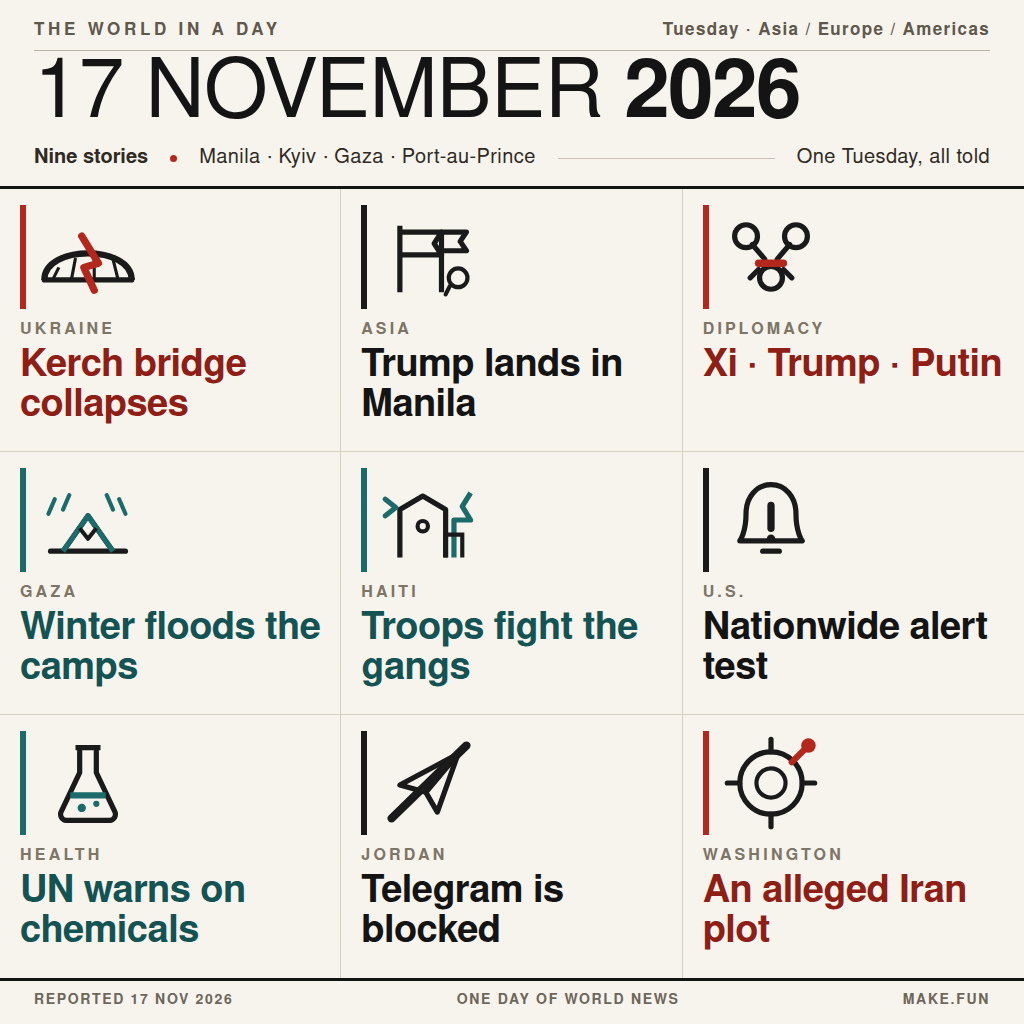
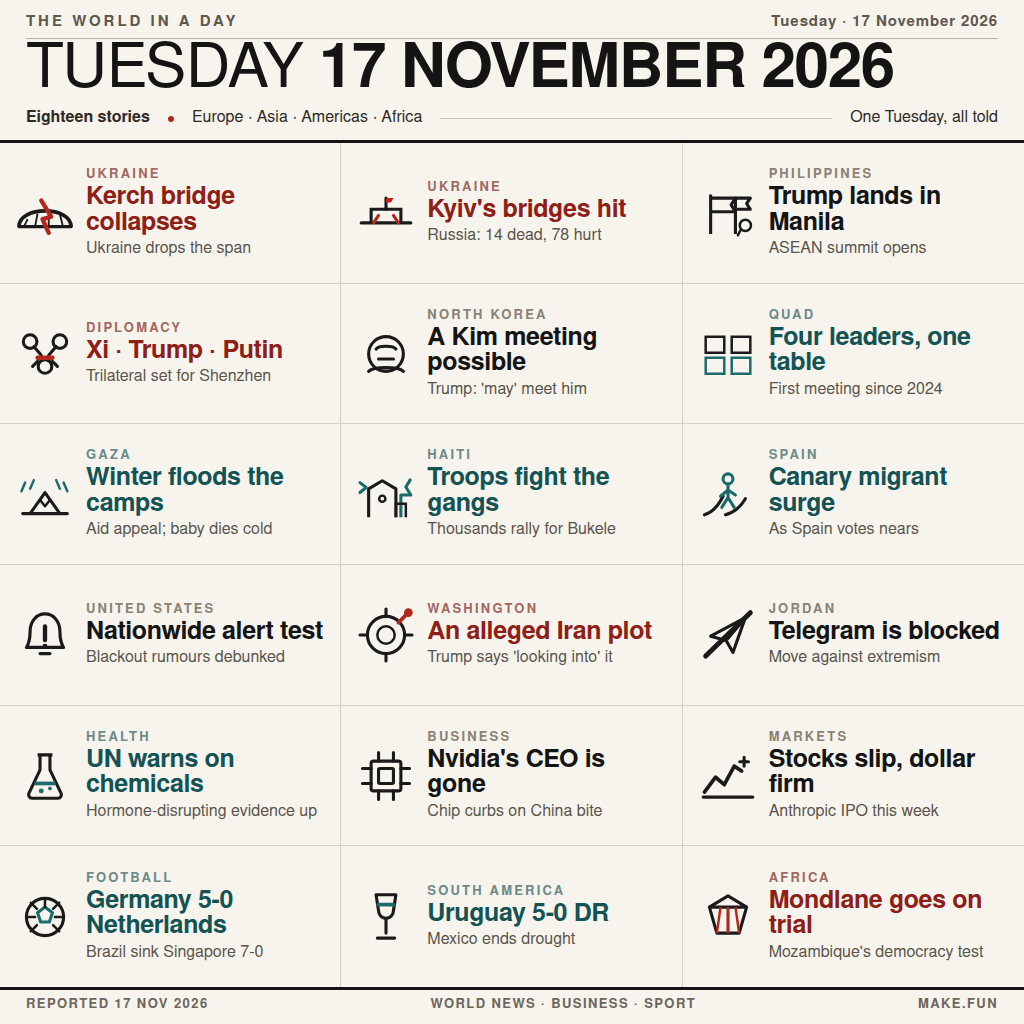
news-image 17 Nov: eighteen-story front page, six rows, wider coverage
The nine-tile poster left the page thin against the field. This one carries
eighteen stories across Europe, Asia, the Americas and Africa, with business,
markets, health and sport, in a six-row grid.

Changed region(s): [[0.0, 0.4375, 1.0, 1.0], [0.0, 0.0, 1.0, 0.4062], [0.6875, 0.4375, 1.0, 0.6875]]

diff --git a/render.py b/render.py
@@ -4,10 +4,8 @@
 This is the drawing step, not the entry point: it needs the system Chrome, so
 it does not run in the grader's sandbox. main.py copies the image it writes.
 
-The poster is laid out in HTML with CSS typography and inline SVG, then rendered
-to PNG by the system Chrome. Python's standard library only: nothing is
-installed before this runs, and no network is used. Both runs write the same
-bytes, so the image is deterministic.
+The poster is laid out in HTML with CSS typography and inline SVG, then
+rendered to PNG by the system Chrome. Python's standard library only.
 """
 import os
 import shutil
@@ -19,21 +17,29 @@ W = H = 1024
 OUT = os.path.join(os.path.dirname(os.path.abspath(__file__)), "entry.png")
 
 # ----------------------------------------------------------------- the stories
-# Each entry: (icon id, section, headline, sublabel, accent)
+# Each entry: (icon id, region, headline, sublabel, accent)
 STORIES = [
-    ("bridge", "UKRAINE", "Kerch bridge collapses", "red"),
-    ("flags", "ASIA", "Trump lands in Manila", "ink"),
-    ("handshake", "DIPLOMACY", "Xi · Trump · Putin", "red"),
-    ("dove", "GAZA", "Winter floods the camps", "teal"),
-    ("haiti", "HAITI", "Troops fight the gangs", "teal"),
-    ("alert", "U.S.", "Nationwide alert test", "ink"),
-    ("flask", "HEALTH", "UN warns on chemicals", "teal"),
-    ("phone", "JORDAN", "Telegram is blocked", "ink"),
-    ("probe", "WASHINGTON", "An alleged Iran plot", "red"),
+    ("bridge", "UKRAINE", "Kerch bridge collapses", "Ukraine drops the span", "red"),
+    ("kyiv", "UKRAINE", "Kyiv's bridges hit", "Russia: 14 dead, 78 hurt", "red"),
+    ("flags", "PHILIPPINES", "Trump lands in Manila", "ASEAN summit opens", "ink"),
+    ("handshake", "DIPLOMACY", "Xi · Trump · Putin", "Trilateral set for Shenzhen", "red"),
+    ("kim", "NORTH KOREA", "A Kim meeting possible", "Trump: 'may' meet him", "ink"),
+    ("quad", "QUAD", "Four leaders, one table", "First meeting since 2024", "teal"),
+    ("dove", "GAZA", "Winter floods the camps", "Aid appeal; baby dies cold", "teal"),
+    ("haiti", "HAITI", "Troops fight the gangs", "Thousands rally for Bukele", "teal"),
+    ("migrant", "SPAIN", "Canary migrant surge", "As Spain votes nears", "teal"),
+    ("alert", "UNITED STATES", "Nationwide alert test", "Blackout rumours debunked", "ink"),
+    ("probe", "WASHINGTON", "An alleged Iran plot", "Trump says 'looking into' it", "red"),
+    ("phone", "JORDAN", "Telegram is blocked", "Move against extremism", "ink"),
+    ("flask", "HEALTH", "UN warns on chemicals", "Hormone-disrupting evidence up", "teal"),
+    ("chip", "BUSINESS", "Nvidia's CEO is gone", "Chip curbs on China bite", "ink"),
+    ("market", "MARKETS", "Stocks slip, dollar firm", "Anthropic IPO this week", "ink"),
+    ("ball", "FOOTBALL", "Germany 5-0 Netherlands", "Brazil sink Singapore 7-0", "teal"),
+    ("wine", "SOUTH AMERICA", "Uruguay 5-0 DR", "Mexico ends drought", "teal"),
+    ("gold", "AFRICA", "Mondlane goes on trial", "Mozambique's democracy test", "red"),
 ]
 
 # ------------------------------------------------------------------ the icons
-# Each icon is a flat drawing in a 100x100 box, drawn in the accent colour.
 ICONS = {
     "bridge": """
       <path d="M8 72h84" stroke="INK" stroke-width="5" stroke-linecap="round"/>
@@ -42,6 +48,14 @@ ICONS = {
             stroke="INK" stroke-width="3"/>
       <path d="M44 30l16 26-14 4 10 22" fill="none" stroke="ACC" stroke-width="7"
             stroke-linecap="round" stroke-linejoin="round"/>
+    """,
+    "kyiv": """
+      <path d="M10 66h80" stroke="INK" stroke-width="5" stroke-linecap="round"/>
+      <path d="M26 66V44h48v22" fill="none" stroke="INK" stroke-width="5"/>
+      <path d="M50 44V26" stroke="INK" stroke-width="5" stroke-linecap="round"/>
+      <path d="M50 26h12l-4 7h-8z" fill="ACC"/>
+      <path d="M38 54l-8 12M62 54l8 12" stroke="ACC" stroke-width="5"
+            stroke-linecap="round"/>
     """,
     "flags": """
       <path d="M22 84V20M22 26h40l-7 11 7 11H22" fill="none" stroke="INK" stroke-width="5"
@@ -59,12 +73,24 @@ ICONS = {
             stroke="INK" stroke-width="5" stroke-linecap="round"/>
       <path d="M38 56h24" stroke="ACC" stroke-width="7" stroke-linecap="round"/>
     """,
+    "kim": """
+      <circle cx="50" cy="50" r="28" fill="none" stroke="INK" stroke-width="5"/>
+      <path d="M34 42c4-6 28-6 32 0" fill="none" stroke="INK" stroke-width="5"
+            stroke-linecap="round"/>
+      <path d="M38 58h24" stroke="INK" stroke-width="5" stroke-linecap="round"/>
+      <path d="M22 78c8-8 48-8 56 0" fill="none" stroke="ACC" stroke-width="5"
+            stroke-linecap="round"/>
+    """,
+    "quad": """
+      <path d="M14 22h30v26H14z" fill="none" stroke="INK" stroke-width="4"/>
+      <path d="M56 22h30v26H56z" fill="none" stroke="INK" stroke-width="4"/>
+      <path d="M14 56h30v26H14z" fill="none" stroke="ACC" stroke-width="4"/>
+      <path d="M56 56h30v26H56z" fill="none" stroke="ACC" stroke-width="4"/>
+    """,
     "dove": """
       <path d="M14 80h72" stroke="INK" stroke-width="5" stroke-linecap="round"/>
       <path d="M26 80l24-34 24 34" fill="none" stroke="INK" stroke-width="5"
             stroke-linejoin="round"/>
-      <path d="M26 80l24-34 24 34" fill="none" stroke="ACC" stroke-width="5"
-            stroke-linejoin="round" transform="translate(0,0)"/>
       <path d="M42 58l8 10 8-10" fill="none" stroke="INK" stroke-width="4"
             stroke-linejoin="round"/>
       <path d="M18 30l-6 14M32 26l-6 14M80 30l6 14M68 26l6 14" stroke="ACC"
@@ -80,6 +106,15 @@ ICONS = {
       <path d="M8 30l10 8-10 8" fill="none" stroke="ACC" stroke-width="5"
             stroke-linejoin="round" stroke-linecap="round"/>
     """,
+    "migrant": """
+      <path d="M12 82c14-4 22-14 30-30" fill="none" stroke="INK" stroke-width="5"
+            stroke-linecap="round"/>
+      <path d="M46 82c14-4 24-12 32-26" fill="none" stroke="INK" stroke-width="5"
+            stroke-linecap="round"/>
+      <circle cx="50" cy="24" r="8" fill="none" stroke="ACC" stroke-width="5"/>
+      <path d="M50 34v20M50 42l-12 10M50 42l12 8M50 54l-10 16M50 54l10 16"
+            fill="none" stroke="ACC" stroke-width="5" stroke-linecap="round"/>
+    """,
     "alert": """
       <path d="M50 16c14 0 24 12 24 28 0 18 6 26 6 26H20s6-8 6-26c0-16 10-28 24-28z"
             fill="none" stroke="INK" stroke-width="5" stroke-linejoin="round"/>
@@ -94,11 +129,19 @@ ICONS = {
       <circle cx="44" cy="74" r="4" fill="ACC"/>
       <circle cx="58" cy="70" r="3" fill="ACC"/>
     """,
-    "phone": """
-      <path d="M22 52l56-30-20 56-11-19z" fill="none" stroke="INK" stroke-width="5"
-            stroke-linejoin="round"/>
-      <path d="M47 59L78 22" stroke="INK" stroke-width="5" stroke-linecap="round"/>
-      <path d="M14 84L86 14" stroke="ACC" stroke-width="8" stroke-linecap="round"/>
+    "chip": """
+      <rect x="26" y="26" width="48" height="48" rx="4" fill="none" stroke="INK"
+            stroke-width="5"/>
+      <rect x="38" y="38" width="24" height="24" rx="2" fill="none" stroke="ACC"
+            stroke-width="5"/>
+      <path d="M38 12v14M62 12v14M38 74v14M62 74v14M12 38h14M12 62h14M74 38h14M74 62h14"
+            stroke="INK" stroke-width="5" stroke-linecap="round"/>
+    """,
+    "market": """
+      <path d="M12 76l18-24 14 12 16-30 12 8" fill="none" stroke="ACC" stroke-width="6"
+            stroke-linejoin="round" stroke-linecap="round"/>
+      <path d="M10 84h80" stroke="INK" stroke-width="5" stroke-linecap="round"/>
+      <path d="M76 20v14M69 27h14" stroke="INK" stroke-width="5" stroke-linecap="round"/>
     """,
     "probe": """
       <circle cx="50" cy="50" r="30" fill="none" stroke="INK" stroke-width="5"/>
@@ -107,6 +150,32 @@ ICONS = {
             stroke-linecap="round"/>
       <path d="M70 30l18-18" stroke="ACC" stroke-width="6" stroke-linecap="round"/>
       <circle cx="86" cy="14" r="7" fill="ACC"/>
+    """,
+    "phone": """
+      <path d="M22 52l56-30-20 56-11-19z" fill="none" stroke="INK" stroke-width="5"
+            stroke-linejoin="round"/>
+      <path d="M47 59L78 22" stroke="INK" stroke-width="5" stroke-linecap="round"/>
+      <path d="M14 84L86 14" stroke="ACC" stroke-width="8" stroke-linecap="round"/>
+    """,
+    "ball": """
+      <circle cx="50" cy="50" r="30" fill="none" stroke="INK" stroke-width="5"/>
+      <path d="M50 34l12 9-5 15H43l-5-15z" fill="none" stroke="ACC" stroke-width="5"
+            stroke-linejoin="round"/>
+      <path d="M50 20v14M20 50h14M80 50H66M27 27l10 10M73 27L63 37M27 73l10-10M73 73L63 63"
+            stroke="INK" stroke-width="4" stroke-linecap="round"/>
+    """,
+    "wine": """
+      <path d="M34 14h32l-4 26a12 12 0 01-24 0z" fill="none" stroke="INK" stroke-width="5"
+            stroke-linejoin="round"/>
+      <path d="M50 52v24M36 84h28" stroke="INK" stroke-width="5" stroke-linecap="round"/>
+      <path d="M38 30h24" stroke="ACC" stroke-width="6" stroke-linecap="round"/>
+    """,
+    "gold": """
+      <path d="M50 16l30 18-12 42H32L20 34z" fill="none" stroke="INK" stroke-width="5"
+            stroke-linejoin="round"/>
+      <path d="M20 34h60" stroke="INK" stroke-width="5"/>
+      <path d="M50 34v42" stroke="ACC" stroke-width="5"/>
+      <path d="M32 76l6-42M68 76l-6-42" stroke="ACC" stroke-width="4"/>
     """,
 }
 
@@ -119,16 +188,15 @@ ACCENTS = {
 
 def tile(story):
     """One story tile: its icon, its section and its headline."""
-    icon, section, headline, accent = story
+    icon, region, headline, sub, accent = story
     svg = (
-        '<svg viewBox="0 0 100 100" width="104" height="104" aria-hidden="true">'
+        '<svg viewBox="0 0 100 100" width="62" height="62" aria-hidden="true">'
         + ICONS[icon].replace("INK", "#1a1a1a").replace("ACC", ACCENTS[accent])
         + "</svg>"
     )
     return f"""      <article class="tile accent-{accent}">
-        <div class="art">{svg}</div>
-        <div class="kicker">{section}</div>
-        <h2>{headline}</h2>
+        <div class="art">{svg}<div class="txt"><div class="kicker">{region}</div>
+          <h2>{headline}</h2><p>{sub}</p></div></div>
       </article>
 """
 
@@ -143,49 +211,53 @@ def build_html():
   body {{ width:{W}px; height:{H}px; overflow:hidden; background:#f7f4ee; color:#141414;
          font-family:"Nimbus Sans","Liberation Sans","DejaVu Sans",Helvetica,Arial,sans-serif;
          display:flex; flex-direction:column; }}
-  .mast {{ padding:22px 34px 16px; border-bottom:3px solid #141414; }}
+  .mast {{ padding:14px 26px 12px; border-bottom:3px solid #141414; }}
   .kicker-row {{ display:flex; justify-content:space-between; align-items:baseline;
-                 border-bottom:1px solid #b9b2a4; padding-bottom:8px; }}
-  .kicker-row .k {{ font-size:17px; letter-spacing:.22em; text-transform:uppercase;
+                 border-bottom:1px solid #b9b2a4; padding-bottom:6px; }}
+  .kicker-row .k {{ font-size:15px; letter-spacing:.2em; text-transform:uppercase;
                     font-weight:700; color:#5f584c; }}
-  .kicker-row .r {{ font-size:17px; letter-spacing:.08em; color:#5f584c; font-weight:700; }}
-  h1 {{ font-size:82px; line-height:.92; letter-spacing:-.02em; font-weight:700;
-        margin-top:10px; text-transform:uppercase; }}
+  .kicker-row .r {{ font-size:15px; letter-spacing:.06em; color:#5f584c; font-weight:700; }}
+  h1 {{ font-size:62px; line-height:.92; letter-spacing:-.022em; font-weight:700;
+        margin-top:6px; text-transform:uppercase; }}
   h1 .thin {{ font-weight:300; letter-spacing:-.01em; }}
-  .dateline {{ display:flex; gap:22px; align-items:center; margin-top:10px;
-               font-size:20px; color:#2f2a23; font-weight:700; }}
-  .dateline .dot {{ width:7px; height:7px; border-radius:50%; background:#b3271d; }}
+  .dateline {{ display:flex; gap:18px; align-items:center; margin-top:7px;
+               font-size:16px; color:#2f2a23; font-weight:700; }}
+  .dateline .dot {{ width:6px; height:6px; border-radius:50%; background:#b3271d; }}
   .dateline .bar {{ flex:1; height:1px; background:#c9c2b4; }}
-  .dateline .loc {{ font-weight:400; letter-spacing:.02em; }}
+  .dateline .loc {{ font-weight:400; }}
   .grid {{ flex:1; display:grid; grid-template-columns:repeat(3,1fr);
-           grid-template-rows:repeat(3,1fr); }}
-  .tile {{ padding:16px 20px 14px; border-right:1px solid #d6d0c2;
-           border-bottom:1px solid #d6d0c2; display:flex; flex-direction:column; }}
+           grid-template-rows:repeat(6,1fr); }}
+  .tile {{ padding:9px 14px 8px; border-right:1px solid #d6d0c2;
+           border-bottom:1px solid #d6d0c2; display:flex; flex-direction:column;
+           justify-content:center; }}
   .tile:nth-child(3n) {{ border-right:none; }}
-  .tile:nth-child(n+7) {{ border-bottom:none; }}
-  .art {{ width:104px; height:104px; margin-bottom:12px; }}
-  .tile .kicker {{ font-size:16px; letter-spacing:.2em; text-transform:uppercase;
-                   font-weight:700; color:#7d7566; margin-bottom:8px; }}
-  .tile h2 {{ font-size:38px; line-height:1.04; font-weight:700; letter-spacing:-.015em; }}
-  .accent-red .art {{ border-left:6px solid #b3271d; padding-left:10px; }}
-  .accent-teal .art {{ border-left:6px solid #1c6b6b; padding-left:10px; }}
-  .accent-ink .art {{ border-left:6px solid #1a1a1a; padding-left:10px; }}
+  .tile:nth-child(n+16) {{ border-bottom:none; }}
+  .art {{ display:flex; align-items:center; gap:10px; }}
+  .art svg {{ flex:none; }}
+  .txt {{ min-width:0; }}
+  .tile .kicker {{ font-size:13px; letter-spacing:.17em; text-transform:uppercase;
+                   font-weight:700; color:#8a8274; margin-bottom:2px; }}
+  .tile h2 {{ font-size:25px; line-height:1.02; font-weight:700; letter-spacing:-.015em;
+              margin-bottom:3px; }}
+  .tile p {{ font-size:16px; line-height:1.15; color:#5b544a; }}
   .accent-red h2 {{ color:#8e1e16; }}
   .accent-teal h2 {{ color:#145353; }}
-  .foot {{ padding:12px 34px 14px; border-top:3px solid #141414; display:flex;
-           justify-content:space-between; font-size:14px; letter-spacing:.12em;
+  .accent-red .kicker {{ color:#a2695f; }}
+  .accent-teal .kicker {{ color:#6d8b88; }}
+  .foot {{ padding:8px 26px 10px; border-top:3px solid #141414; display:flex;
+           justify-content:space-between; font-size:13px; letter-spacing:.11em;
            text-transform:uppercase; color:#6d665a; font-weight:700; }}
 </style></head>
 <body>
   <header class="mast">
     <div class="kicker-row">
       <span class="k">The World in a Day</span>
-      <span class="r">Tuesday &middot; Asia / Europe / Americas</span>
+      <span class="r">Tuesday &middot; 17 November 2026</span>
     </div>
-    <h1><span class="thin">17 November</span> 2026</h1>
+    <h1><span class="thin">Tuesday</span> 17 November 2026</h1>
     <div class="dateline">
-      <span>Nine stories</span><span class="dot"></span>
-      <span class="loc">Manila &middot; Kyiv &middot; Gaza &middot; Port-au-Prince</span>
+      <span>Eighteen stories</span><span class="dot"></span>
+      <span class="loc">Europe &middot; Asia &middot; Americas &middot; Africa</span>
       <span class="bar"></span><span class="loc">One Tuesday, all told</span>
     </div>
   </header>
@@ -193,7 +265,7 @@ def build_html():
 {tiles}  </main>
   <footer class="foot">
     <span>Reported 17 Nov 2026</span>
-    <span>One day of world news</span>
+    <span>World news &middot; business &middot; sport</span>
     <span>make.fun</span>
   </footer>
 </body></html>
@@ -201,7 +273,7 @@ def build_html():
 
 
 def main():
-    """Render the poster with Chrome and copy the PNG into place."""
+    """Render the poster with Chrome and write the PNG in place."""
     with tempfile.TemporaryDirectory() as work:
         page = os.path.join(work, "poster.html")
         shot = os.path.join(work, "poster.png")
